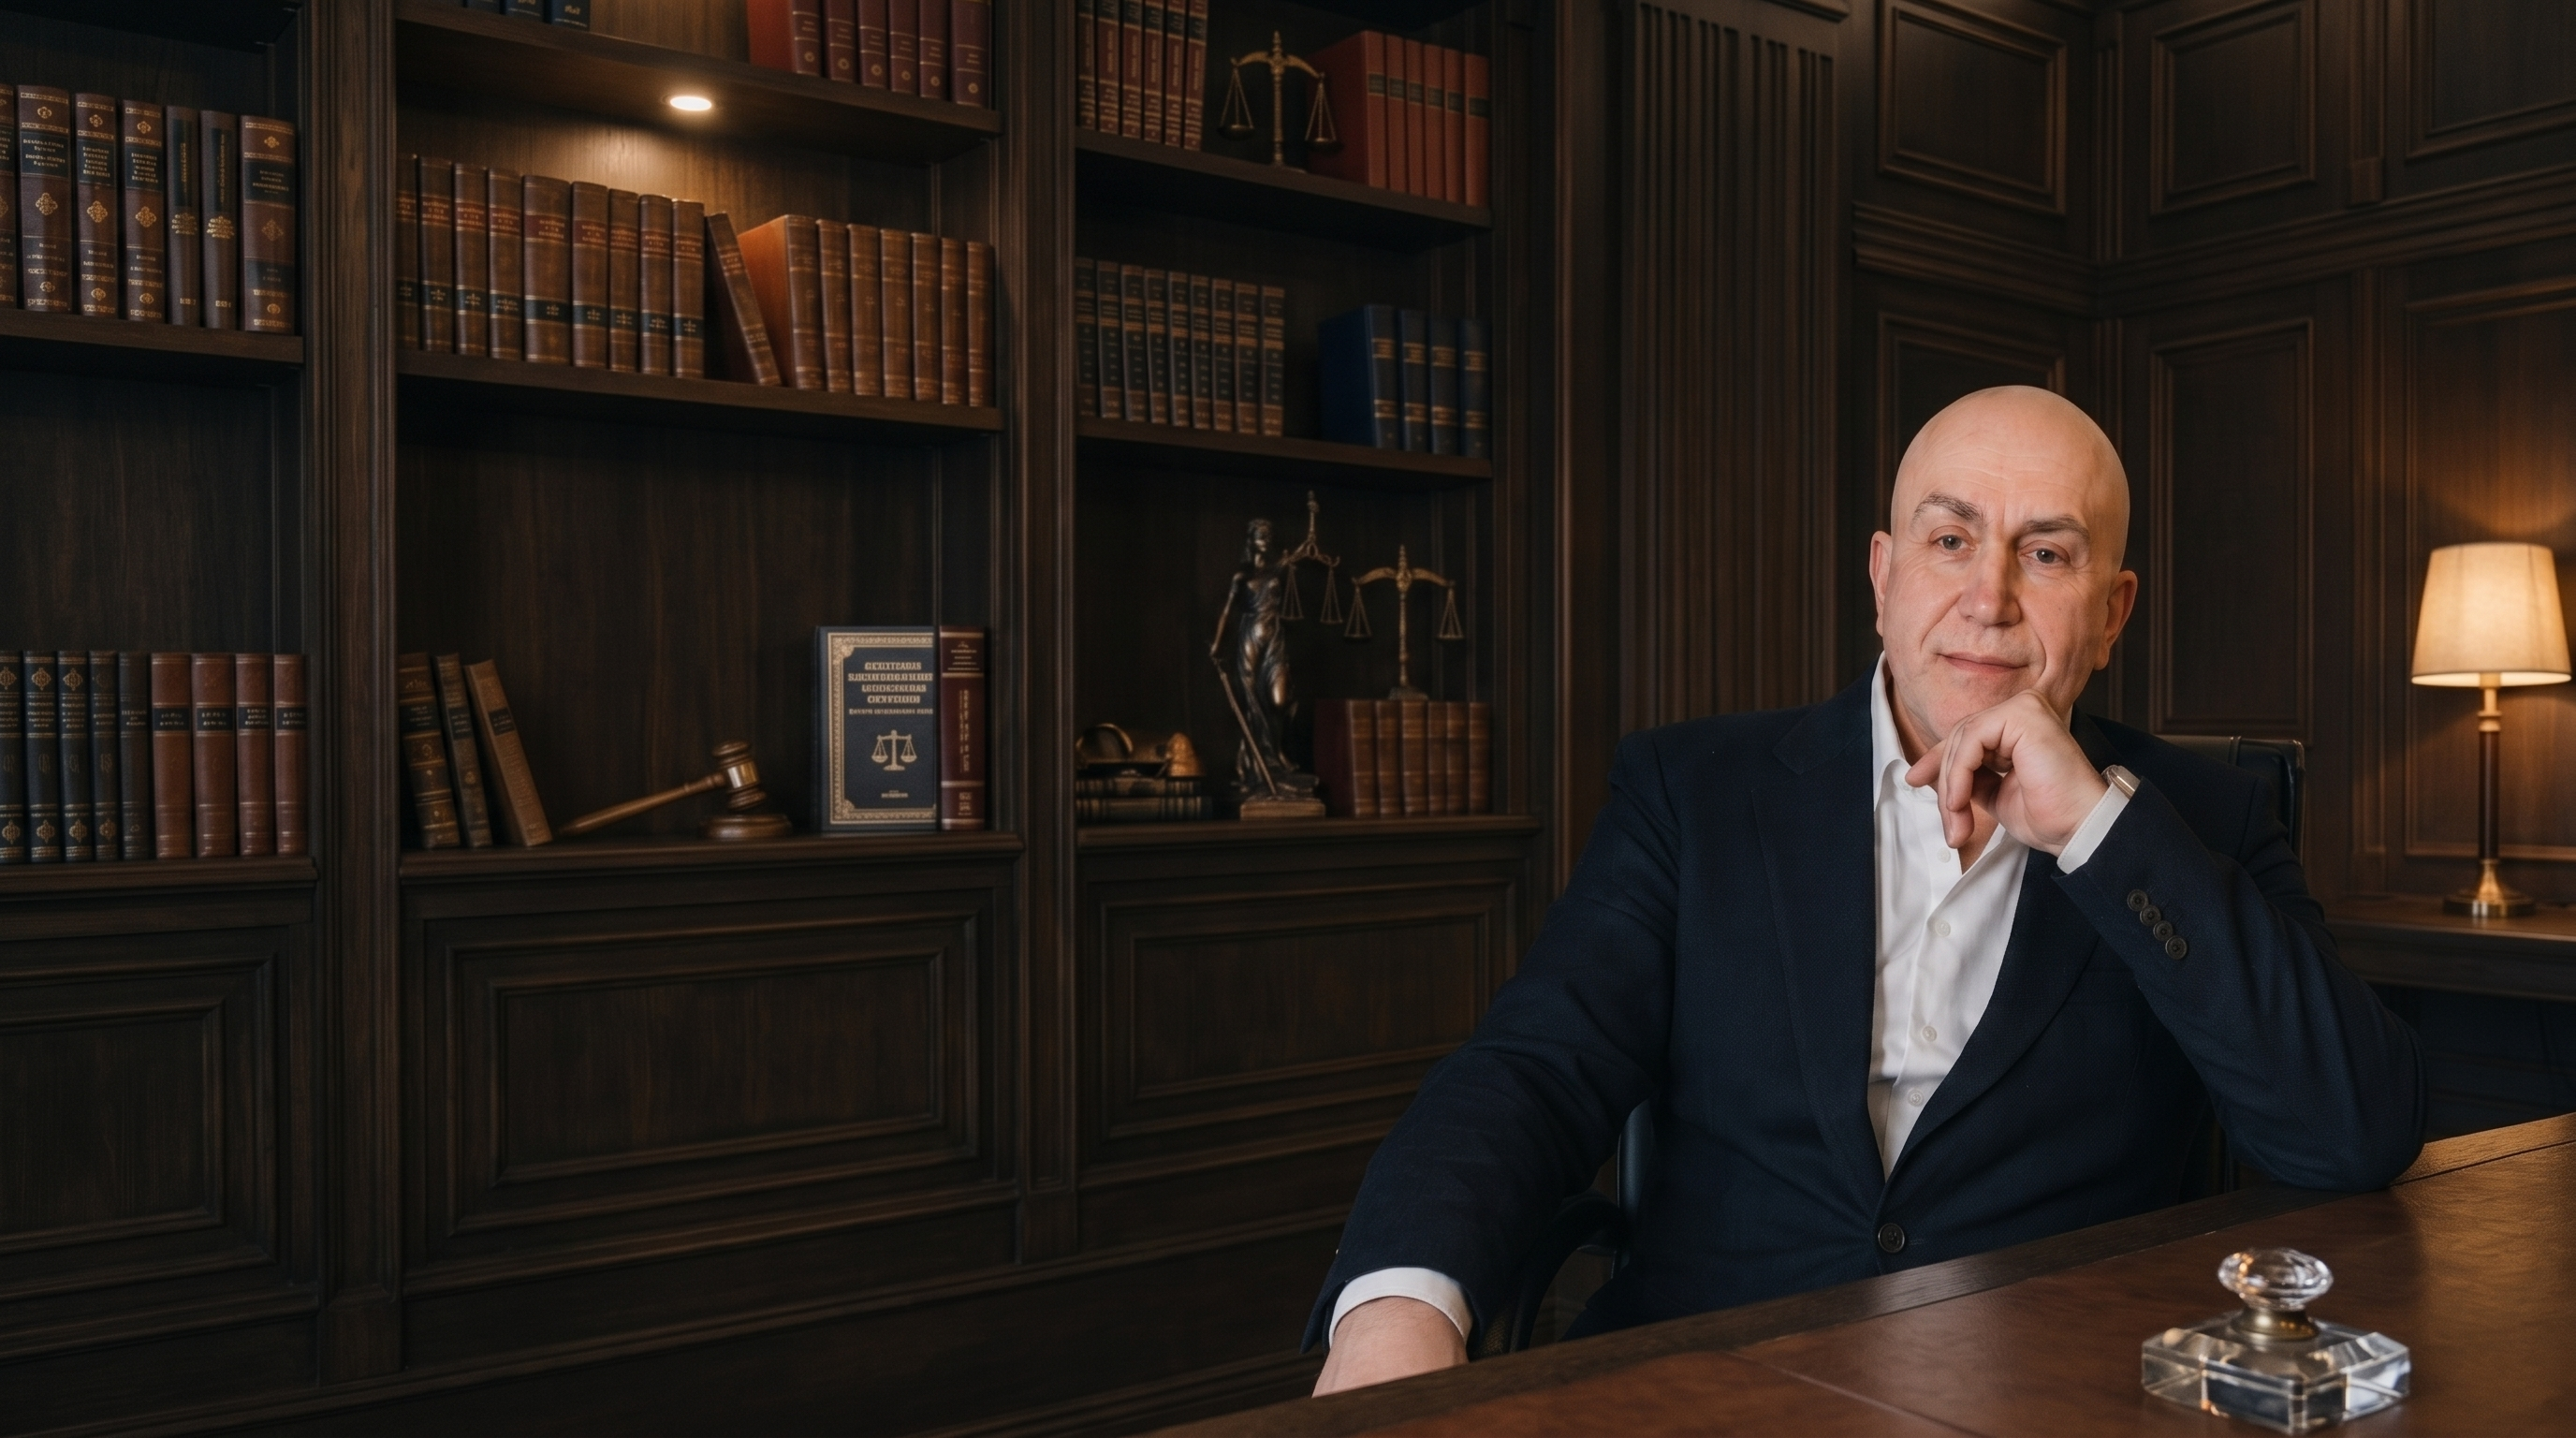
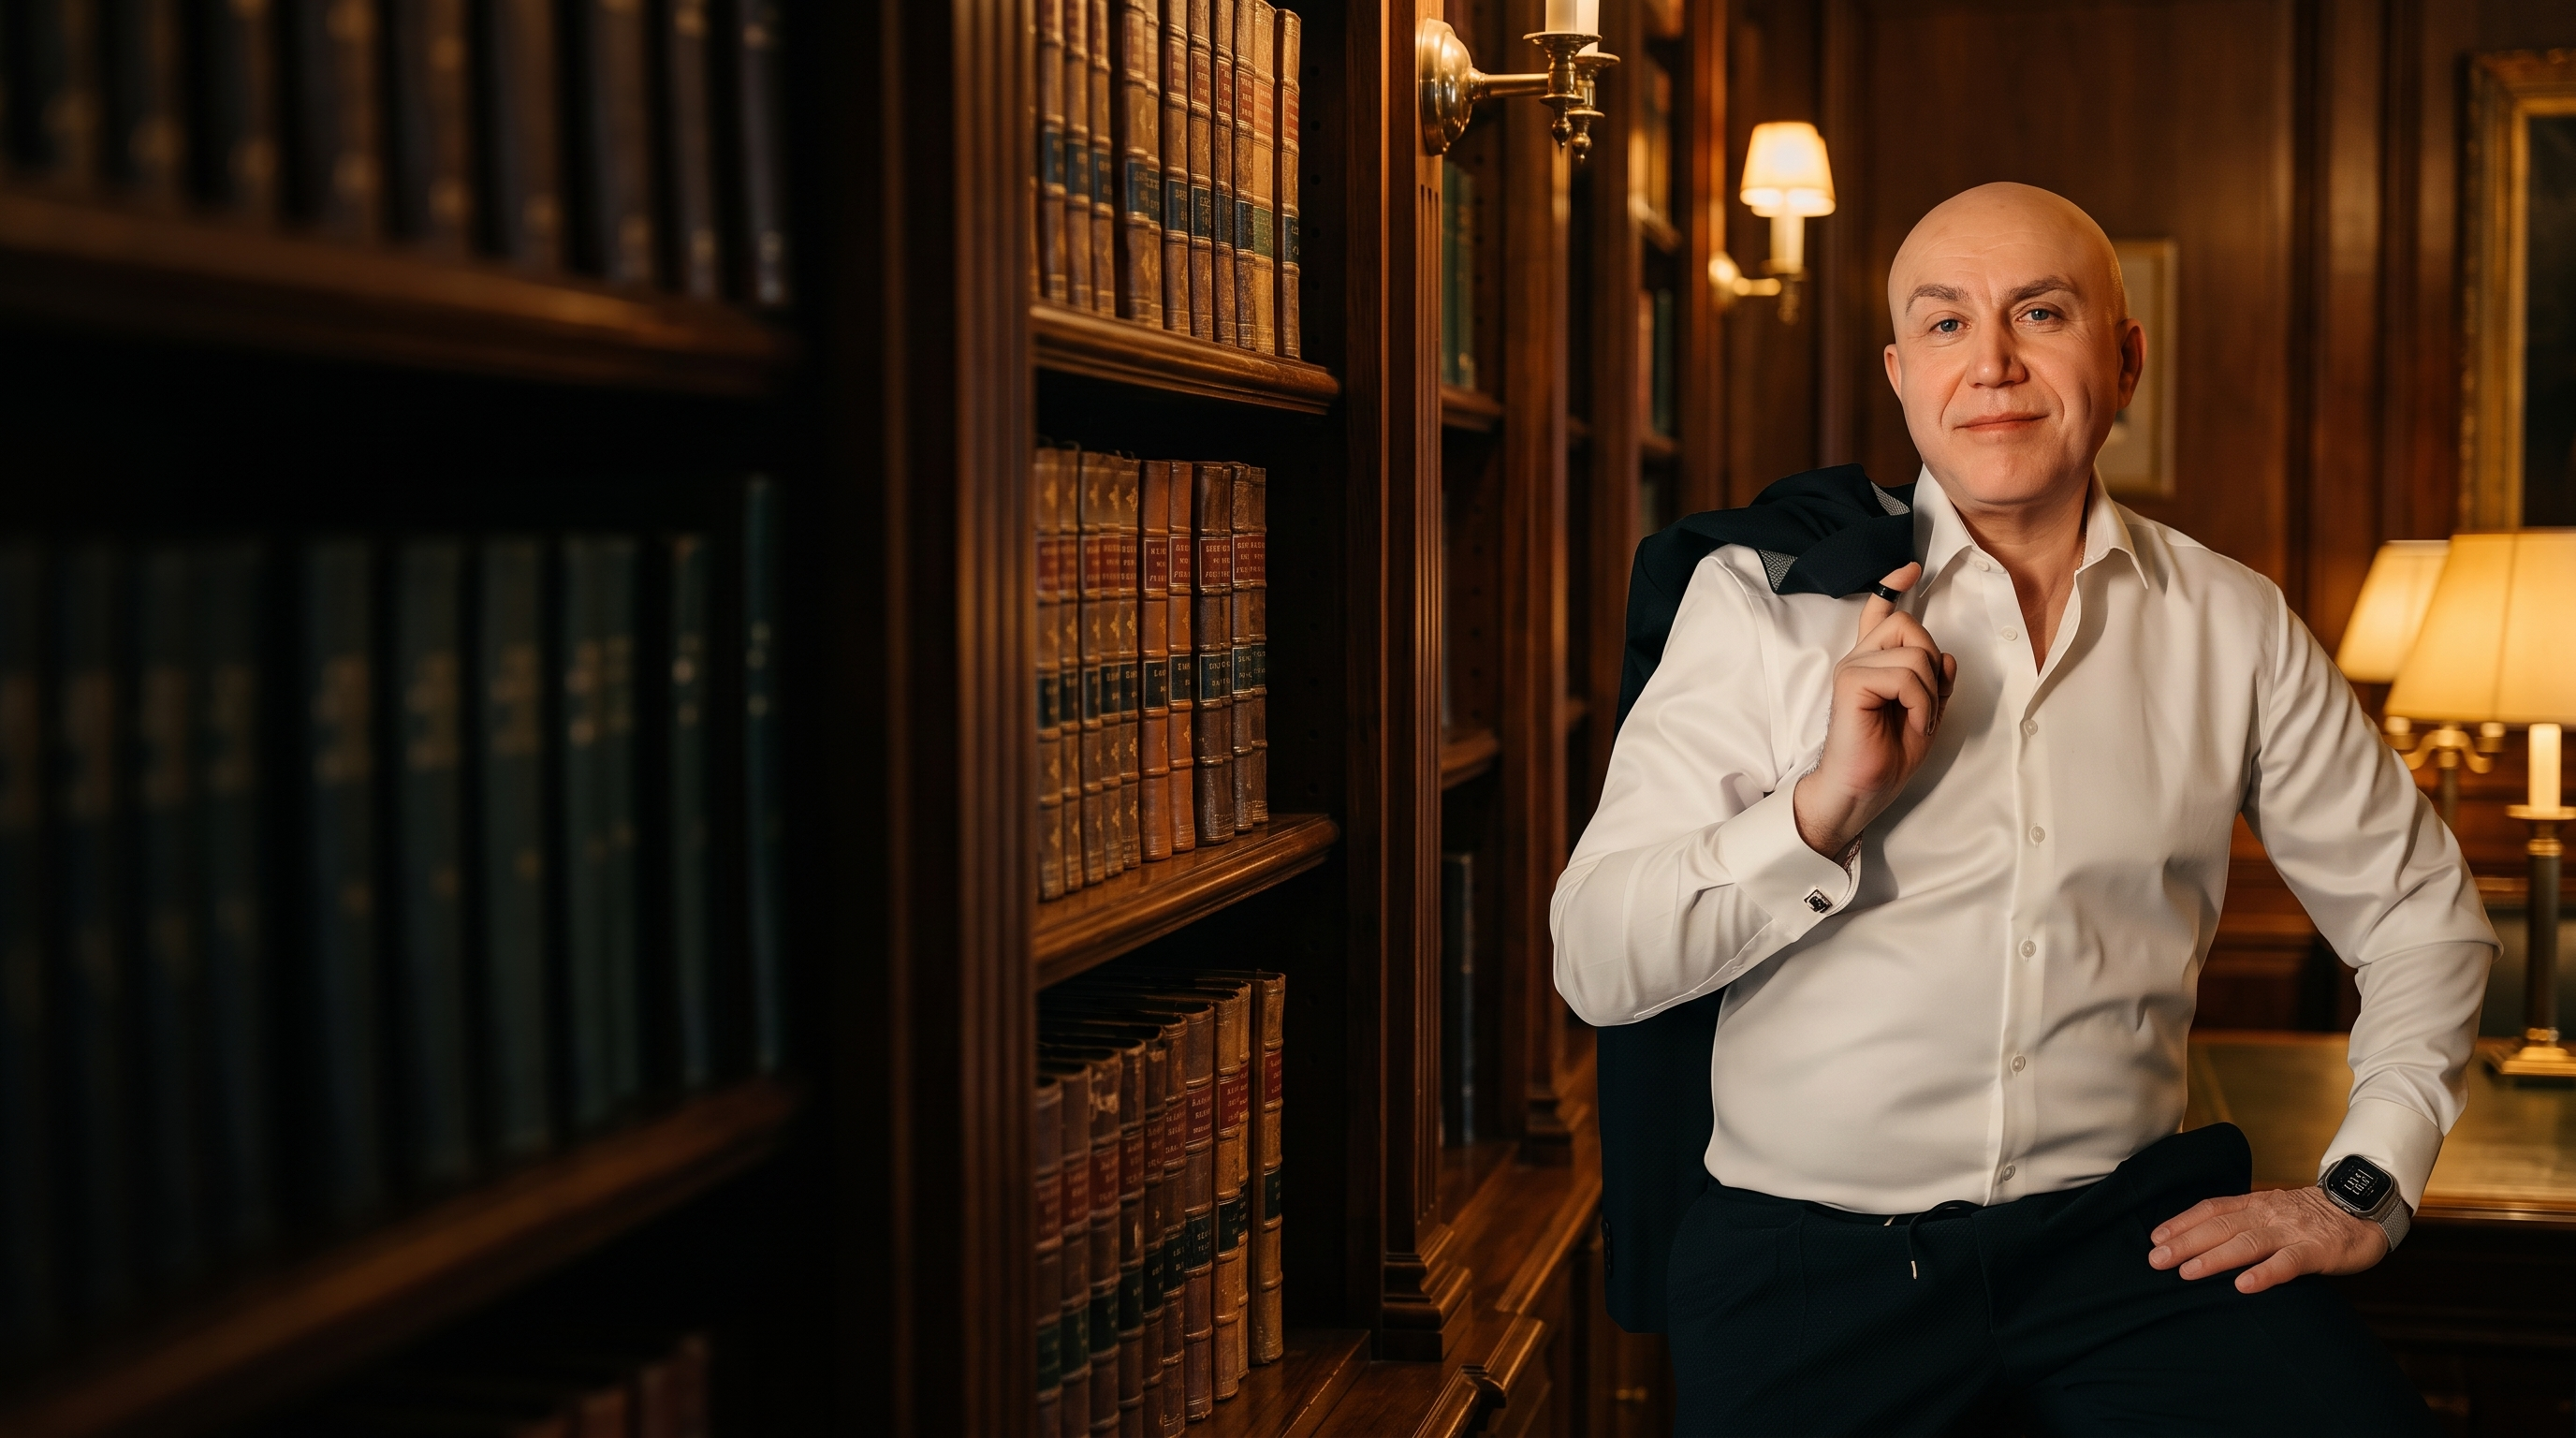
photo-added

diff --git a/components/sections/HeroSection.tsx b/components/sections/HeroSection.tsx
@@ -7,31 +7,37 @@ export function HeroSection() {
   return (
     <section
       id="about"
-      className="relative flex flex-col min-h-[70vh] lg:min-h-[75vh] justify-center py-16 lg:py-20 overflow-hidden border-b border-border-gold"
+      className="relative flex flex-col min-h-[calc(100dvh-64px)] lg:min-h-[60vh] justify-end lg:justify-center py-12 lg:py-20 overflow-hidden border-b border-border-gold"
     >
       <Image
-        src="/images/hero-mobile.jpeg"
-        alt=""
+        src="/images/hero-mobile1.jpeg"
+        alt="Валентин Поплавский"
         fill
         priority
         className="object-cover object-top lg:hidden"
         sizes="100vw"
       />
       <Image
-        src="/images/hero21-9.png"
-        alt=""
+        src="/images/hero.jpeg"
+        alt="Валентин Поплавский"
         fill
         priority
         className="hidden lg:block object-cover object-top"
         sizes="100vw"
       />
 
+      {/* Mobile overlay: gradient to top */}
       <div
-        className="absolute inset-0 z-[5] bg-gradient-to-t from-bg-primary/95 via-bg-primary/50 to-transparent lg:bg-none lg:backdrop-blur-3xl lg:[mask-image:linear-gradient(to_right,white_0%,white_10%,transparent_70%,transparent_100%)]"
+        className="absolute inset-0 z-[5] bg-gradient-to-t from-bg-primary via-bg-primary/95 via-50% to-transparent lg:hidden"
+        aria-hidden="true"
+      />
+      {/* Desktop overlay: gradient to right */}
+      <div
+        className="absolute inset-0 z-[5] hidden lg:block bg-gradient-to-r from-bg-primary via-bg-primary/85 to-transparent"
         aria-hidden="true"
       />
 
-      <Container className="relative z-10 flex flex-col justify-center w-full my-auto">
+      <Container className="relative z-10 flex flex-col justify-end lg:justify-center w-full mt-auto mb-0 lg:my-auto pb-10 lg:pb-0">
         <div className="flex flex-col gap-4 lg:gap-5 max-w-xl">
           <div className="flex items-center gap-3">
             <span className="text-gold text-[10px] font-semibold tracking-[0.2em] uppercase">

diff --git a/components/sections/ServicesAboutBento.tsx b/components/sections/ServicesAboutBento.tsx
@@ -18,10 +18,10 @@ export function ServicesAboutBento() {
   return (
     <Section id="services" borderTop>
       <div className="border border-border-gold grid grid-cols-1 lg:grid-cols-[1fr_380px] lg:items-stretch">
-        
+
         {/* LEFT COLUMN: DIRECTIONS & PROCESS */}
         <div className="border-b lg:border-b-0 lg:border-r border-border-gold p-6 lg:p-8 flex flex-col justify-between gap-10">
-          
+
           {/* PRACTICAL DIRECTIONS */}
           <div>
             <SectionHeading title={servicesSection.title} overline="НАПРАВЛЕНИЯ" showUnderline className="mb-6" />
@@ -88,7 +88,7 @@ export function ServicesAboutBento() {
         <div className="flex flex-col min-h-full bg-bg-surface" id="about-bureau">
           <div className="relative flex-1 min-h-[350px] sm:min-h-[400px] md:min-h-[480px] lg:min-h-0">
             <Image
-              src="/images/founder.jpeg"
+              src="/images/founder1.jpeg"
               alt="Валентин Поплавский"
               fill
               className="object-cover object-top"

diff --git a/components/ui/BlockTitle.tsx b/components/ui/BlockTitle.tsx
@@ -6,9 +6,9 @@ interface BlockTitleProps {
 export function BlockTitle({ children, className = "" }: BlockTitleProps) {
   return (
     <div className={`flex items-center gap-3 mb-4 ${className}`}>
-      <h2 className="font-sans text-xs font-semibold tracking-[0.15em] uppercase text-text-primary">
+      <h3 className="font-serif text-lg sm:text-xl text-text-primary leading-tight">
         {children}
-      </h2>
+      </h3>
       <span className="hidden sm:block w-10 h-px bg-gold shrink-0" aria-hidden="true" />
     </div>
   );